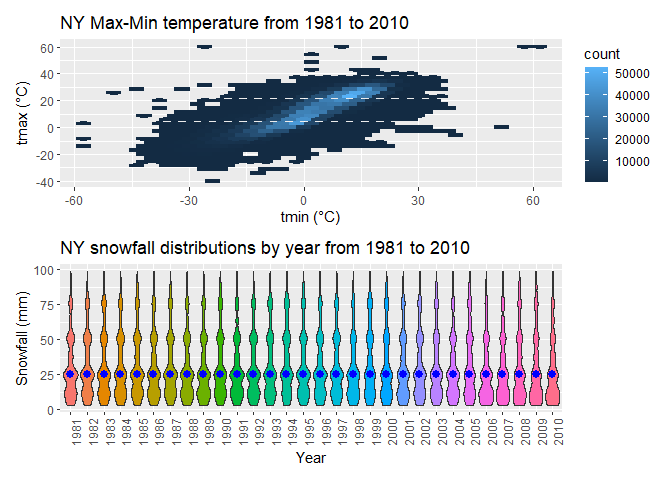
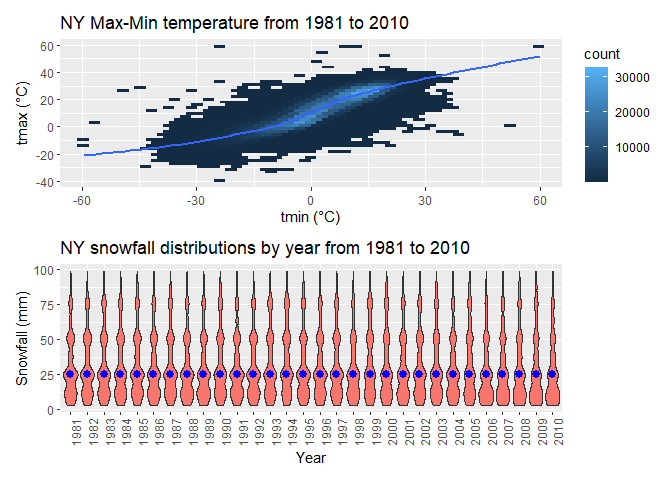
Light modification of plots of problem 3

diff --git a/p8105_hw3_zs2539.md b/p8105_hw3_zs2539.md
@@ -434,7 +434,8 @@ library(patchwork)
 tmax_tmin <- 
     ny_precipitation %>% 
   ggplot(aes(x = tmin, y = tmax)) + 
-    geom_hex() + 
+    geom_hex(bins = 40) +
+    geom_smooth(se = F) +
     labs(
     title = "NY Max-Min temperature from 1981 to 2010",
     x = "tmin (°C)",
@@ -447,7 +448,7 @@ snow_year <-
   filter(snow < 100 & snow > 0) %>%
   mutate(year = factor(year)) %>%
   ggplot(aes(x = year, y = snow)) + 
-  geom_violin(aes(fill = year)) +
+  geom_violin(aes(fill = "orange")) +
     stat_summary(fun = "median", color = "blue") +
     labs(
     title = "NY snowfall distributions by year from 1981 to 2010",
@@ -461,6 +462,10 @@ tmax_tmin / snow_year
 ```
 
     ## Warning: Removed 1136276 rows containing non-finite values (stat_binhex).
+
+    ## `geom_smooth()` using method = 'gam' and formula 'y ~ s(x, bs = "cs")'
+
+    ## Warning: Removed 1136276 rows containing non-finite values (stat_smooth).
 
     ## Warning: Removed 30 rows containing missing values (geom_segment).
 
